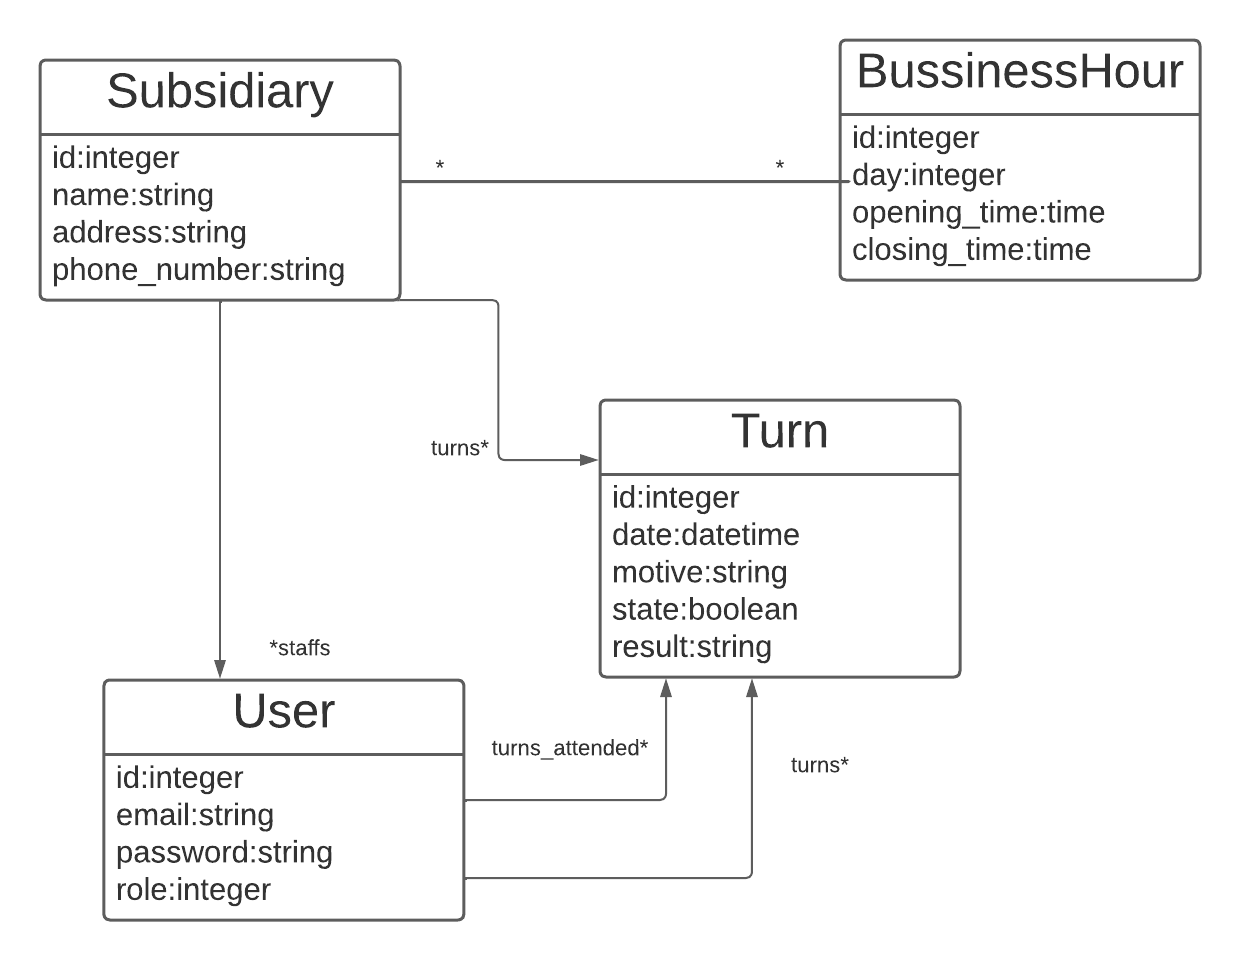
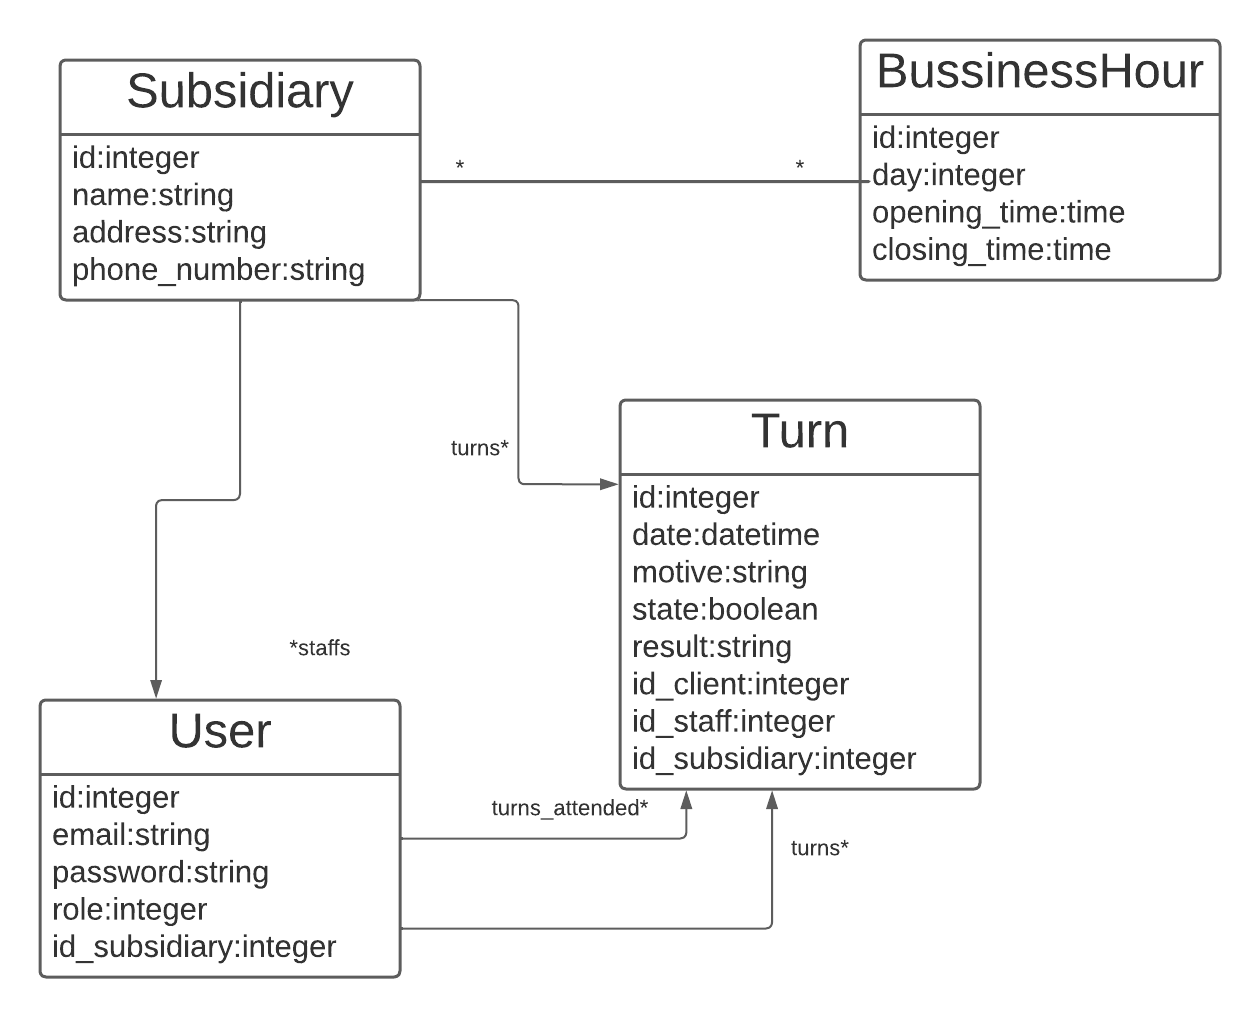
Completando readme.md

diff --git a/README.md b/README.md
@@ -148,6 +148,33 @@ Los horarios de atención de las sucursales pares son:
 
 ![Modelo UML](https://raw.githubusercontent.com/matiasboni/ttps_ruby/main/app/assets/images/modelo.png)
 
+## Sucursales
+       Las sucursales tienen los atributos name,phone_number y address,todos requeridos.Además tienen 
+    como mínimo un horario de atención,es decir, al momento de crearla si o sí va a tener horarios de atención.
+       Otra consideración es que una sucursal no puede ser eliminada si tiene turnos pendientes o 
+    atendidos ; o si tiene personal bancario asignado.Ej: las sucursales cargadas de la 1 a la 5 no pueden ser eliminadas.De la 5 a la 8 si pueden ser eliminadas.
+
+## Usuarios
+       Los usuarios tienen los atributos email,password y role,todos requeridos.El rol 0 es el admin,el
+    rol 1 es el personal bancario y el rol 2 el cliente.Cuando se registra un nuevo usuario mediante el registrar público se le asigna automáticamente el rol de cliente.
+       Otra consideración es que un usuario con el rol personal bancario no puede eliminarse si tiene 
+    turnos atendidos.Ej:personal3@gmail.com no puede eliminarse,todo el resto del personal sí.
+       Por otro lado un cliente no puede eliminarse si tiene turnos pendientes o
+    atendidos.Ej:usuario@gmail.com y usuario1@gmail.com no pueden eliminarse,los demás si.
+       El usuario con rol administrador en la acción de editar otros usuarios solo puede editar el rol 
+    y la sucursal en el caso que se trate de un personal bancario.Por otro lado todos los usuarios pueden modificar su email y su contraseña.
+
+## Turnos
+       Los turnos tienen los atributos que se observan en el diagrama.El cliente solo puede solicitar
+    turnos en las bandas horarias de las sucursales.Además como los turnos son de 15 minutos,el último horario que se puede solicitar es 15 minutos antes de la finalización del horario de atención.Ej: si una sucursal cierra a las 17,el cliente solo puede solicitar turnos hasta las 16:45 .
+       El personal bancario solo puede atender los turnos del día y en el horario de atención de dicho
+    día de la sucursal.Ej:el personal4@gmail.com podrá atender el turno del jueves 15 de diciembre 11:30 en cualquier momento entre las 10:00 y las 16:00 ya que es el horario de los jueves de la Sucursal2.
+       Los turnos por parte del usuario no pueden ser editados si la hora y fecha del turno ya pasó.
+
+## Horarios de atención
+       La hora de apertura de los horarios de atención debe ser menor a la hora de cierre de la 
+    sucursal.Todas las sucursales tienen asignado como mínimo un horario de atención.
+
 
 
 
